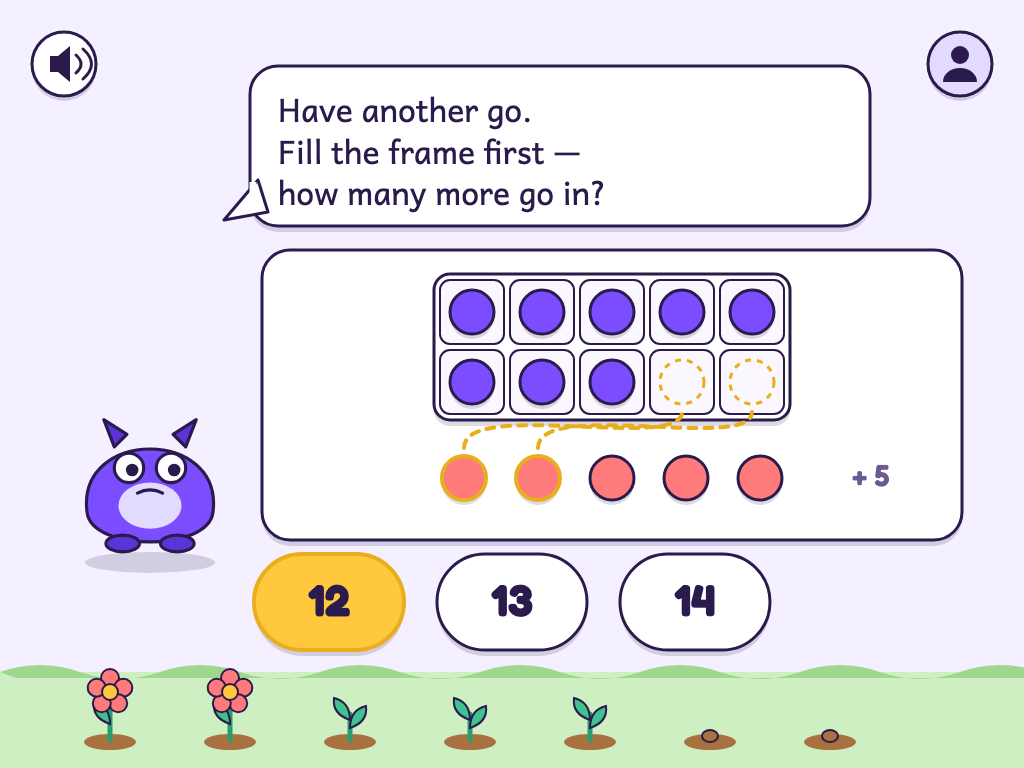
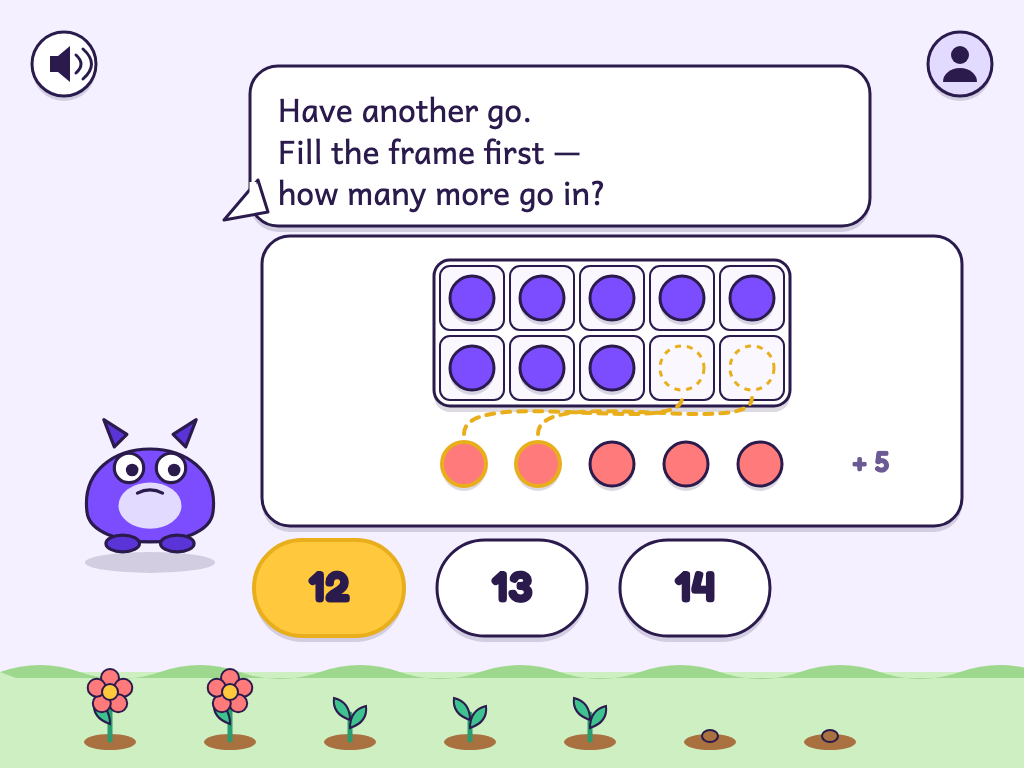
The answer row clears the wrist band, and 03 can read itself aloud

Changed region(s): [[0.25, 0.2812, 0.9375, 0.875]]

diff --git a/README.md b/README.md
@@ -23,12 +23,25 @@ edge landing half a pixel differently.
 
 | screen | difference | of 786,432 pixels |
 |---|---|---|
-| 01 — a question | **493** | 0.063% |
-| 02 — one miss later | **1,133** | 0.144% |
-| 03 — who's playing | **238** | 0.030% |
-| 04 — finished for today | **119** | 0.015% |
+| 01 — a question | **615** | 0.078% |
+| 02 — one miss later | **1,255** | 0.160% |
+| 03 — who's playing | **386** | 0.049% |
+| 04 — finished for today | **181** | 0.023% |
 
 ---
+
+## Why the answer cards sit where they do
+
+The answer row used to clear the 115px band where a child rests a wrist
+by **1.5px** — a coincidence, not a margin — and answers commit the
+moment a finger lands. On a real iPad in Safari, where the toolbar
+leaves 1024x694, that put the cards *inside* the band.
+
+The lower half of 01 and 02 is lifted 14px, which is as far as it can go
+before 02's three-line bubble is in the way. It now clears by 15px at
+the drawn size and 3px on a real iPad. A 1024x600 tablet is still
+inside, and fixing that means redrawing the composition rather than
+nudging it.
 
 ## 01 — the Year 2 question screen
 
@@ -58,7 +71,9 @@ to ten is 10 minus 8.
 
 One big card per child: a face to recognise before you can read the
 name. The faces are art slots — a coloured disc until real avatars
-exist.
+exist. It has a speaker now: the drawing had none, which made it the one
+child screen where a child who cannot read had no way to hear the
+question.
 
 | the drawing | the build | the difference |
 |---|---|---|
